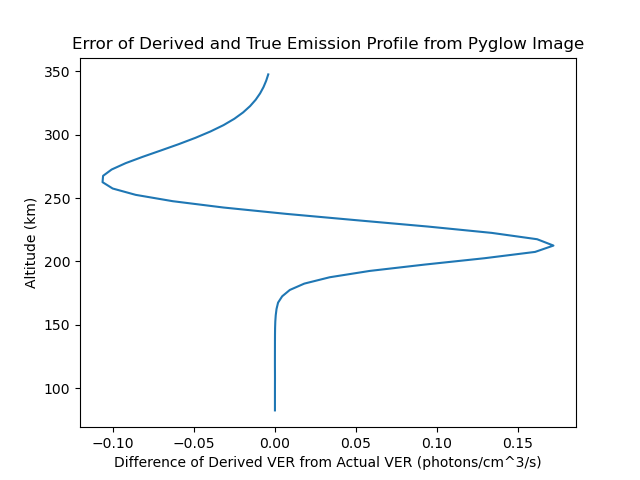
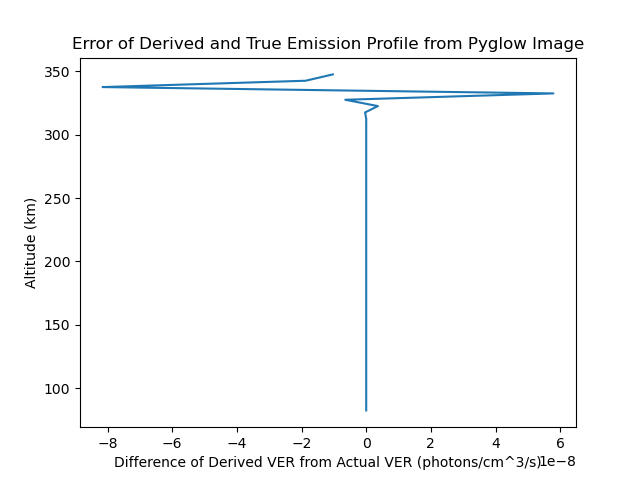
Fixed a mistake in the error plot with altitude

diff --git a/emission_profile.py b/emission_profile.py
@@ -86,7 +86,12 @@ def main():
     profileError = []
     for i in range(len(profile[:, 0])):
         altitude = profile[i, 1] / 1000
-        point = pyglow.Point(time, emissionSimLat, emissionSimLon, altitude)
+        # A correction in the altitude for re-simulated emission is needed here, because the
+        # original simulation is done at altitudes that are multiples of 5km, but the derived
+        # profile graphs the emission as originating in the middle of those layers (at altitudes
+        # that are multiples of 5km, minus 2.5km)
+        correction = 2.5
+        point = pyglow.Point(time, emissionSimLat, emissionSimLon, altitude + correction)
         point.run_airglow()
         profileError.append(profile[i, 0] - point.ag6300)
 
@@ -98,7 +103,7 @@ def main():
     figDiff.savefig("research/mighti-practice/graphs/Pyglow Profile Error Plot.png")
 
 def generateEmissionProfile(pos, lookVectors, image):
-    """Generates an image of the given airglow emission as a 256x1 matrix of floats
+    """Generates an emission profile from a 256x1 image of airglow
 
     Parameters:
     -----------
